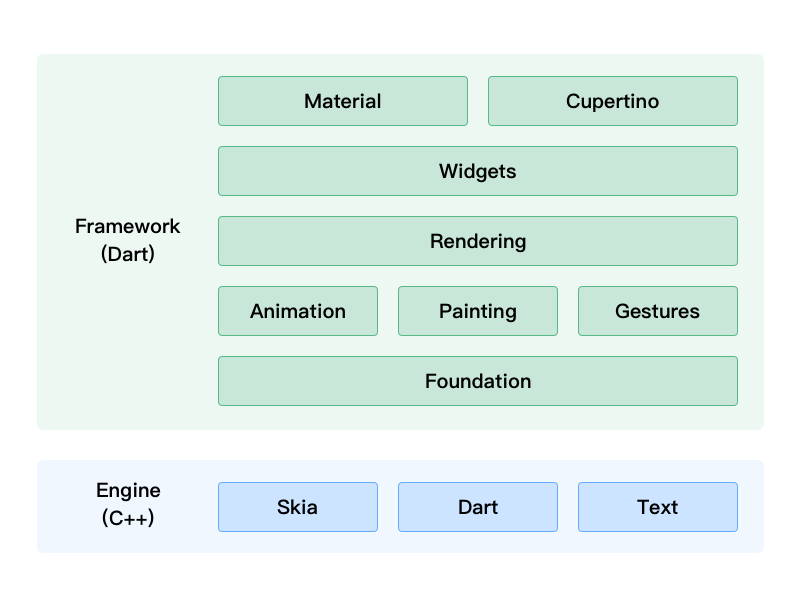
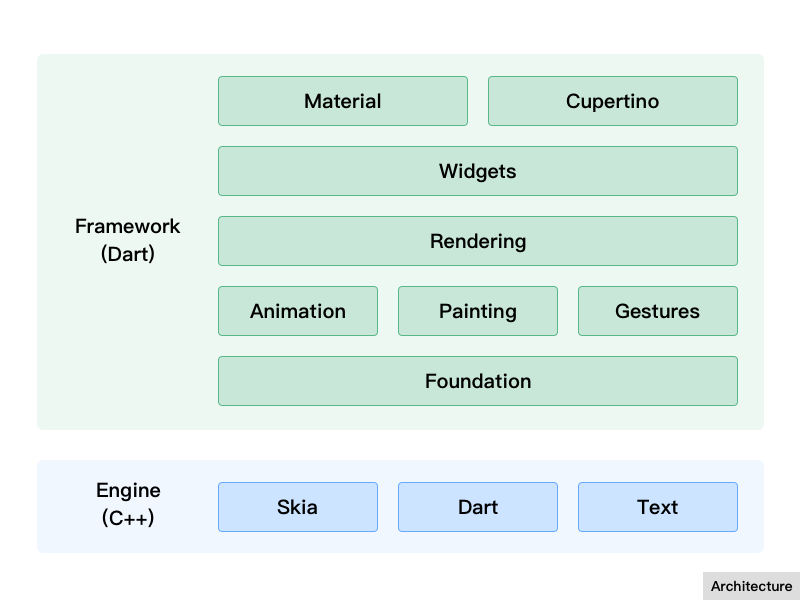
更新 flutter 原理

Changed region(s): [[0.875, 0.93, 1.0, 1.0]]

diff --git a/docs/flutter-principle.md b/docs/flutter-principle.md
@@ -3,6 +3,7 @@
 * 绘图基本原理（OpenGL）
 * Flutter 框架设计
 * Flutter 布局机制
+* Flutter 部件生命周期&状态控制
 * Flutter 渲染
 * Flutter 引擎
 * Flutter 工程结构简介
@@ -12,7 +13,7 @@
 ## 绘图基本原理
 我们先回顾一下计算机在屏幕上的绘图原理过程：
 
-![绘图](../resources/computer-drawing.png)
+![OpenGL](../resources/computer-drawing.png)
 
 * CPU 将计算好的显示内容提交给 GPU
 * GPU 使用 VRAM 中的数据和命令，完成图像渲染
@@ -21,14 +22,20 @@
 
 *帧缓冲区：简称帧缓存或显存，它是屏幕所显示画面的一个直接映象，又称为位映射图(Bit Map)或光栅。帧缓存的每一存储单元对应屏幕上的一个像素，整个帧缓存对应一帧图像。*
 
-当然，Android、iOS 的 UI 渲染过程是如此，Flutter 也是如此，在整个 Flutter 架构中，Flutter 只关心向 GPU 提供显示数据，TODO...
+当然，Android、iOS 的 UI 渲染过程是如此，Flutter 也是如此，在整个 Flutter 架构中，Flutter 只关心向 GPU 提供显示数据，并不关心显示器、视频控制器以及 GPU 是如何工作的。
 
 ![Graphics Pipeline](../resources/graphics-pipeline.png)
+
+* `GPU`将信号同步到 `UI 线程`
+* `UI 线程`用`Dart`来构建`图层树`
+* `图层树`在`GPU 线程`进行合成
+* 合成后的`视图数据`提供给`Skia 引擎`
+* `Skia 引擎`通过`OpenGL 或者 Vulkan`将显示内容提供给`GPU`
 
 ## Flutter 框架设计
 Flutter 整体框架是由 Dart 语言来实现的，它的层次非常清晰，每层（模块）的职责也相对单一，整个结构让 Flutter 框架在使用上来说更加容易和学习。框架的底层是 Flutter 引擎，它负责绘图、动画、网络、Dart 运行时等功能，是由 C++ 实现的，我们会在接下来的章节中介绍。
 
-![Graphics Pipeline](../resources/architecture.png)
+![Architecture](../resources/architecture.png)
 
 * Framework
     * Meterial, Cupertino：针对 Android 的 Meterial 风格，和针对 iOS 的 Cupertino 风格；
@@ -39,18 +46,68 @@ Flutter 整体框架是由 Dart 语言来实现的，它的层次非常清晰，
 * Engine
     * Skia：图形绘制
     * Dart：语言运行时
-    * Text：文字排列
+    * Text：纹理
 
 ## Flutter 布局机制
-TODO...
+Flutter 提供众多的布局组件，这一点和其它 Web 前端框架的差别非常大，种类如下：
+
+* 单个子元素的布局
+    * Container
+    * Padding
+    * Center
+    * Align
+    * ... 多达18种
+* 多个子元素的布局
+    * Row
+    * Column
+    * Stack
+    * ... 多达11种
+
+Flutter 如此繁多的布局组件，对于开发者来说学习难度非常大，并且在不同的页面采用适合的组件非常难选，并且在复杂的布局结构中组件的嵌套非常的深和复杂，这几点绝对让一个 Web 前端开发人员鄙视。或许未来 Flutter 会有更加对开发人员友好的布局设计。
+
+## Flutter 部件生命周期&状态控制
+Flutter 框架的 UI 是基于 Widget 的，一切皆 Widget，与 Vue、React 等前端框架一样，部件有自己的生命周期：
+
+![State Lifecycle](../resources/state-lifecycle.png)
 
 ## Flutter 渲染
-Flutter 渲染层
+Flutter 界面渲染分三个阶段：布局、绘制和合成。布局和绘制是在 Flutter 框架层完成的，合成则是由 Flutter 引擎来完成的。
+
+![Rendering Pipeline](../resources/rendering-pipeline.png)
+
+* `动画`的运行会改变部件状态（update state）
+* 状态的改变会触发`图层树`的重建
+* 根据新旧`图层树`的差异更新`渲染树`
+* 新的`渲染树`合成新的`图层列表`
+* 重新输出`图层树`
 
 ## Flutter 引擎
+Flutter 引擎是由 C++ 实现的，主要包含：Skia、Dart和Text 三大部分：
+
+* Skia：是由 Google 提供的二维图形框架，包含字型、坐标转换，以及点阵图都有高效能且简洁的表现。它运用在在 Chrome、Android、Firefox 等产品上。
+* Dart：是 Dart 语言的运行时。
+* Text：文字布局？？
+
+## Flutter 工程结构简介
+通过 Flutter 插件可以自动创建 Flutter 项目，目录结构如下：
+
+* android：Android 原生项目
+* build
+* ios：iOS 原生项目
+* lib：Flutter 项目源代码
+* test：单元测试
+* .metadata
+* .packages
+* pubspec.lock：项目所有依赖，一颗依赖树
+* pubspec.yaml：项目主依赖配置
+
+## Flutter Vs WebView
+
+## Flutter Vs ReactNative
 
 ## 参考：
 
+* https://tech.meituan.com/waimai_flutter_practice.html
 * https://www.jianshu.com/p/e6cd8584fdbb
 * https://zhuanlan.zhihu.com/p/37438551
 * https://zhuanlan.zhihu.com/p/36861174
@@ -59,3 +116,5 @@ Flutter 渲染层
 * https://blog.csdn.net/chichengjunma/article/details/82078241
 * OpenGL：http://www.twinklingstar.cn/2015/1532/introduce-to-opengl/
 * https://www.brainmobi.com/blog/flutter-the-new-standard-in-mobile-app-development/
+* https://www.imooc.com/article/details/id/31493
+* https://medium.com/saugo360/flutters-rendering-engine-a-tutorial-part-1-e9eff68b825d

diff --git a/README.md b/README.md
@@ -1,4 +1,4 @@
-# Flutter 从入门到...
+# Flutter 从入门到等待
 
 * [Dart 语言](./docs/flutter-dart.md)
 * [Flutter 入门指南](./docs/flutter-abc.md)
@@ -8,3 +8,4 @@
 * [Flutter 项目结构](./docs/flutter-structure.md)
 * [Flutter 原理简介](./docs/flutter-principle.md)
 * [Flutter Vs Vue](./docs/flutter-vue.md)
+* [Flutter MVVM](./docs/flutter-mvvm.md)

diff --git a/docs/flutter-widgets.md b/docs/flutter-widgets.md
@@ -1,2 +1,8 @@
 # Flutter 组件介绍
 
+* Basic
+* Material Components
+* Cupertino (iOS-style)
+* Layout
+* Text
+
